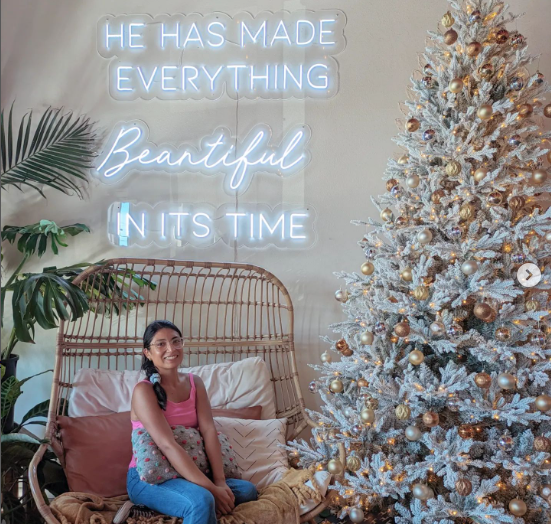
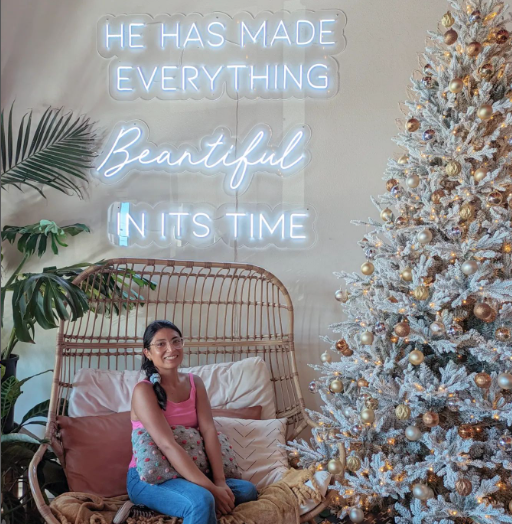
change image for my story and added my story section to index page

diff --git a/index.html b/index.html
@@ -87,6 +87,39 @@
             <small>A Nurse on her journey with Jesus!</small>
         </h1>
     </header>
+    <section class="my-story-section p-5">
+        <div class="row">
+            <div class="col-6 pe-5">
+                <img src="images/christina-5.png"
+                    alt="Christina sitting near a He has made everything beautiful in its time lights"
+                    title="Christina near lights talking about God" class="img-fluid shadow p-3 mb-5 rounded">
+            </div>
+            <div class="col-6 my-story-paragraph-section p-4 mb-2 shadow p-3 mb-5 rounded">
+                <h2 class="text-center text-white">My Story</h2>
+                <p class="text-left text-white lh-base">
+                    Hi, I'm Christina! Jesus Christ is the most
+                    important part of my life. I grew up in El Paso,
+                    TX, where familia and food are essential. When
+                    I'm not working as a registered nurse, you can
+                    find me traveling and exploring the great outdoors.
+                    <br>
+                    <br>
+                    <span class="lh-lg">
+                        "For I know the plans that I have for you, declares the
+                        Lord, plans to prosper you and not to harm you, plans
+                        to give you hope and a future." Jeremiah 29:11
+                    </span>
+                    <br>
+                    <br>
+                    The Lord has placed it on my heart to use
+                    my love of traveling to serve Him on a six-month
+                    DTS mission trip with YWAM. So far, I have traveled to
+                    Hawaii, New York City, and Atlanta. Join me by reading my
+                    blogs as I take my DTS mission trip with YWAM.
+                </p>
+            </div>
+        </div>
+    </section>
     <section class="featured-blog-section m-3" id="featured-blogs-section">
         <div class="row d-flex justify-content-around">
             <h2 class="text-center pb-5">Featured Blogs</h2>

diff --git a/src/style.css b/src/style.css
@@ -1,12 +1,12 @@
 :root {
   --primary-color: black;
   --secondary-color: #f5dfde;
-  --accent-color: rgb(27, 27, 27);
+  --accent-color: #cca3a1;
 }
 
 .navbar ul li a {
   font-family: "Poppins", sans-serif;
-  color: var(--accent-color);
+  color: rgb(8, 8, 8);
   font-size: 20px;
 }
 
@@ -23,7 +23,7 @@
 
 p {
   font-size: 17px;
-  font-weight: 600;
+  font-weight: 500;
   color: var(--primary-color);
   font-family: "Merriweather", serif;
 }
@@ -51,7 +51,7 @@ h1 small {
 h2 {
   font-family: "Poppins", sans-serif;
   font-size: 45px;
-  color: var(--accent-color);
+  color: rgb(14, 13, 13);
 }
 
 h3 {
@@ -60,7 +60,7 @@ h3 {
 
 .header-section {
   max-width: 1512px;
-  background-color: #ceadab;
+  background-color: var(--accent-color);
   background-image: linear-gradient(rgba(0, 0, 0, 0.4), rgb(192, 112, 41, 0.3)),
     url("../images/christina-1.png");
   background-repeat: no-repeat;
@@ -73,11 +73,16 @@ h3 {
   font-size: 20px;
   font-weight: 500;
   font-family: "Poppins", sans-serif;
-  color: var(--accent-color);
+  color: rgb(29, 29, 29);
 }
 
 .header-section h1 {
   text-shadow: 7px 7px 10px rgba(0, 0, 0, 0.8);
+}
+
+.my-story-paragraph-section {
+  background-color: var(--accent-color);
+  padding-right: 70px;
 }
 
 .featured-blog-section .blog:hover {
